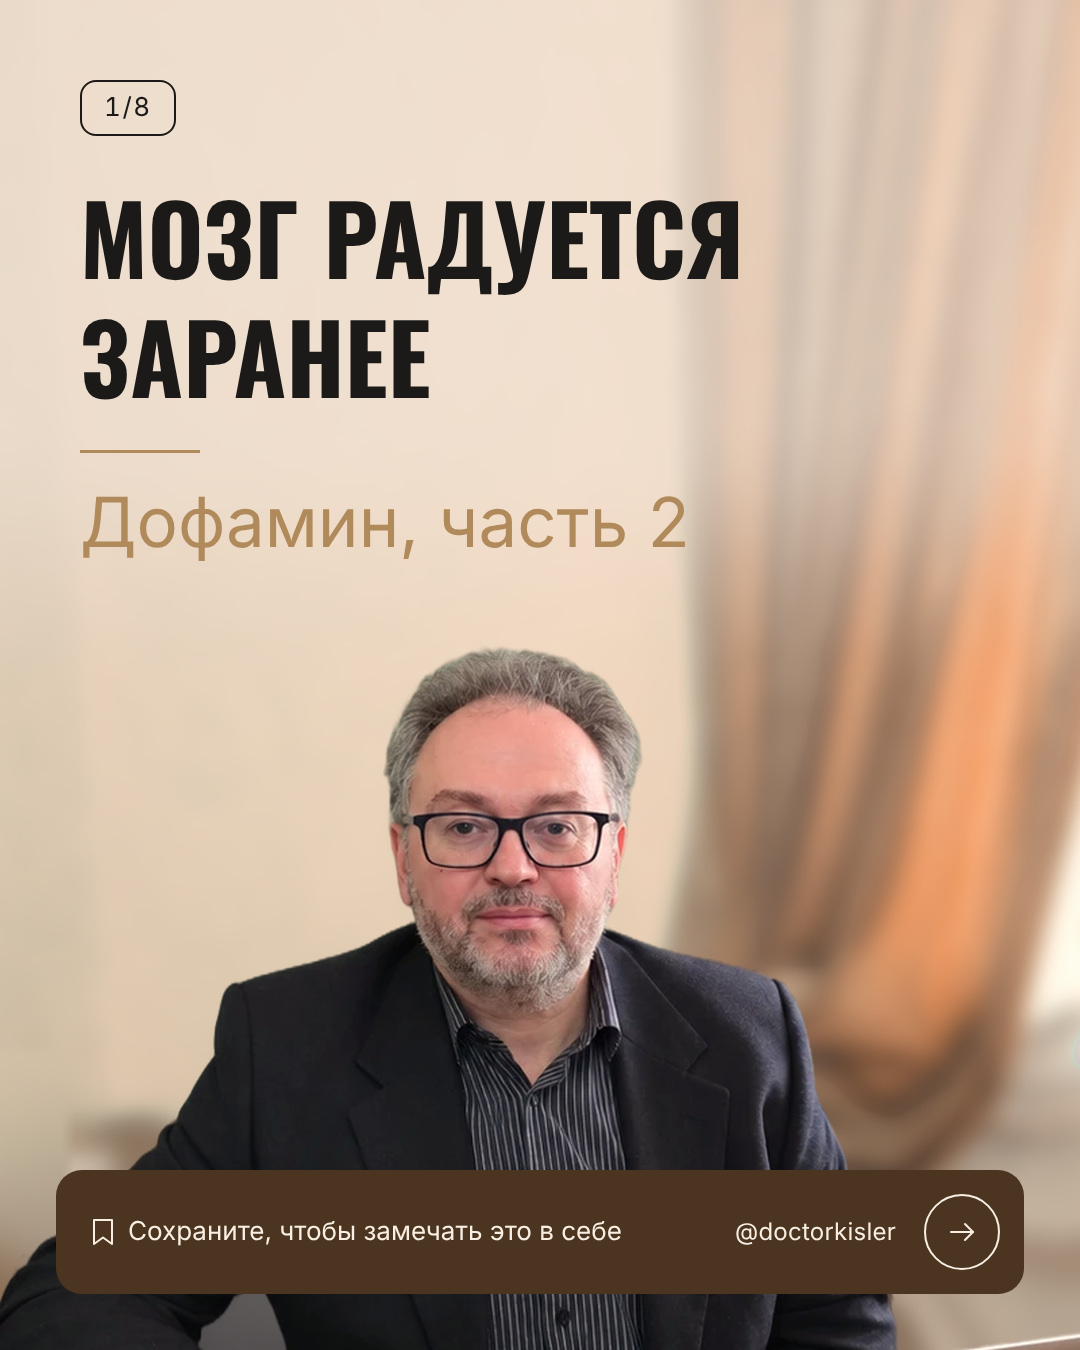
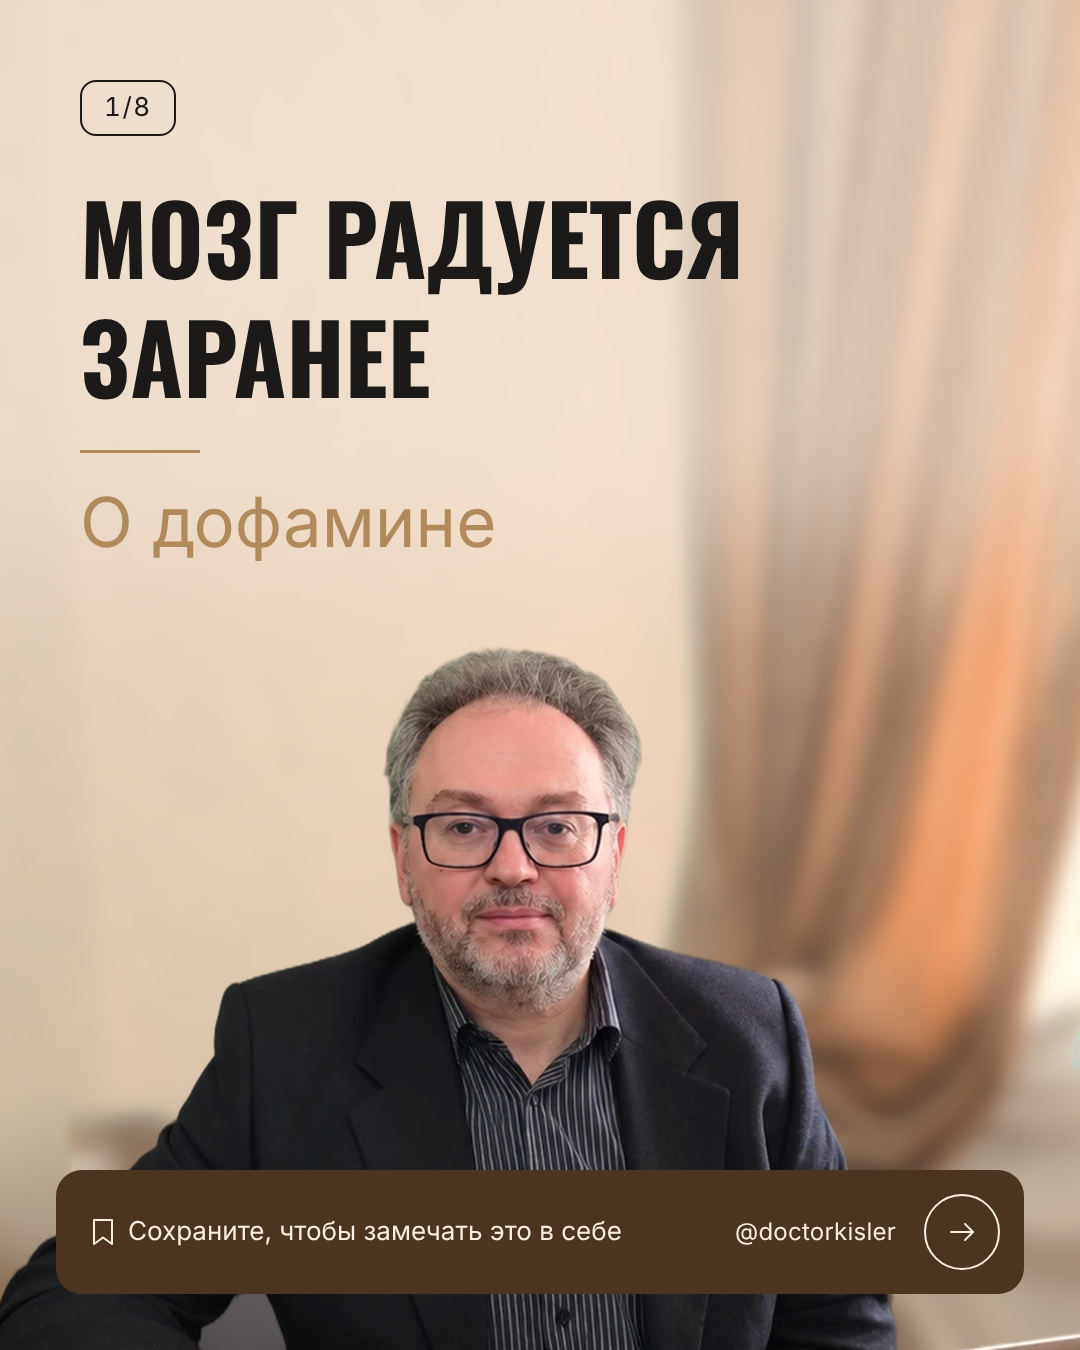
Карусель про дофамин: нейтральный подзаголовок «О дофамине» вместо «часть 2»
Claude-Session: https://claude.ai/code/session_019BtadytbTpLJWiPD1hnvab

Changed region(s): [[0.0611, 0.3733, 0.5806, 0.4044], [0.6111, 0.3733, 0.6417, 0.4044]]

diff --git a/carousels/2026-10-22_dofamin_chast_2/source/slides.js b/carousels/2026-10-22_dofamin_chast_2/source/slides.js
@@ -1,11 +1,11 @@
-// Тексты карусели «Дофамин, часть 2». Сборка: npm --prefix tools/carousel run build -- carousels/2026-10-22_dofamin_chast_2
+// Тексты карусели «О дофамине». Сборка: npm --prefix tools/carousel run build -- carousels/2026-10-22_dofamin_chast_2
 // Поля слайдов описаны в tools/carousel/README.md.
 module.exports = [
   {
     type: 'cover',
     title: 'Мозг радуется заранее',
     titleBreakAfter: 'радуется',
-    subtitle: 'Дофамин, часть 2',
+    subtitle: 'О дофамине',
     note: 'Сохраните, чтобы замечать это в себе',
   },
   { type: 'sign', ill: 'courierTracking', title: '1. «Курьер уже в пути»', text: 'Еда ещё не приехала, а настроение уже поднялось.', big: true, hl: 'настроение уже поднялось' },

diff --git a/carousels/2026-10-22_dofamin_chast_2/podpis.md b/carousels/2026-10-22_dofamin_chast_2/podpis.md
@@ -1,11 +1,11 @@
-# Подпись к карусели «Дофамин, часть 2»
+# Подпись к карусели «О дофамине»
 
 Публикация: четверг, 22 октября, 19:00 по Москве. Задача поста: охват, без продающего призыва.
 
 ```text
 Дофамин часто называют гормоном удовольствия, но точнее сказать, что он отвечает за ожидание. За то самое «сейчас будет».
 
-В сентябрьском ролике я разбирал, почему «курьер уже в пути» радует сильнее, чем сам суп. В этой карусели ещё шесть ситуаций, где мозг радуется заранее.
+В карусели шесть ситуаций, где мозг радуется заранее.
 
 В обычной жизни это просто забавно. Но при зависимости этот механизм работает против человека: удовольствие от выпивки или игры со временем тускнеет, а тяга при виде привычных сигналов только растёт. Звук уведомления, знакомое приложение, вечер пятницы — и мозг уже предвкушает, хотя вы ещё ничего не решили.
 
